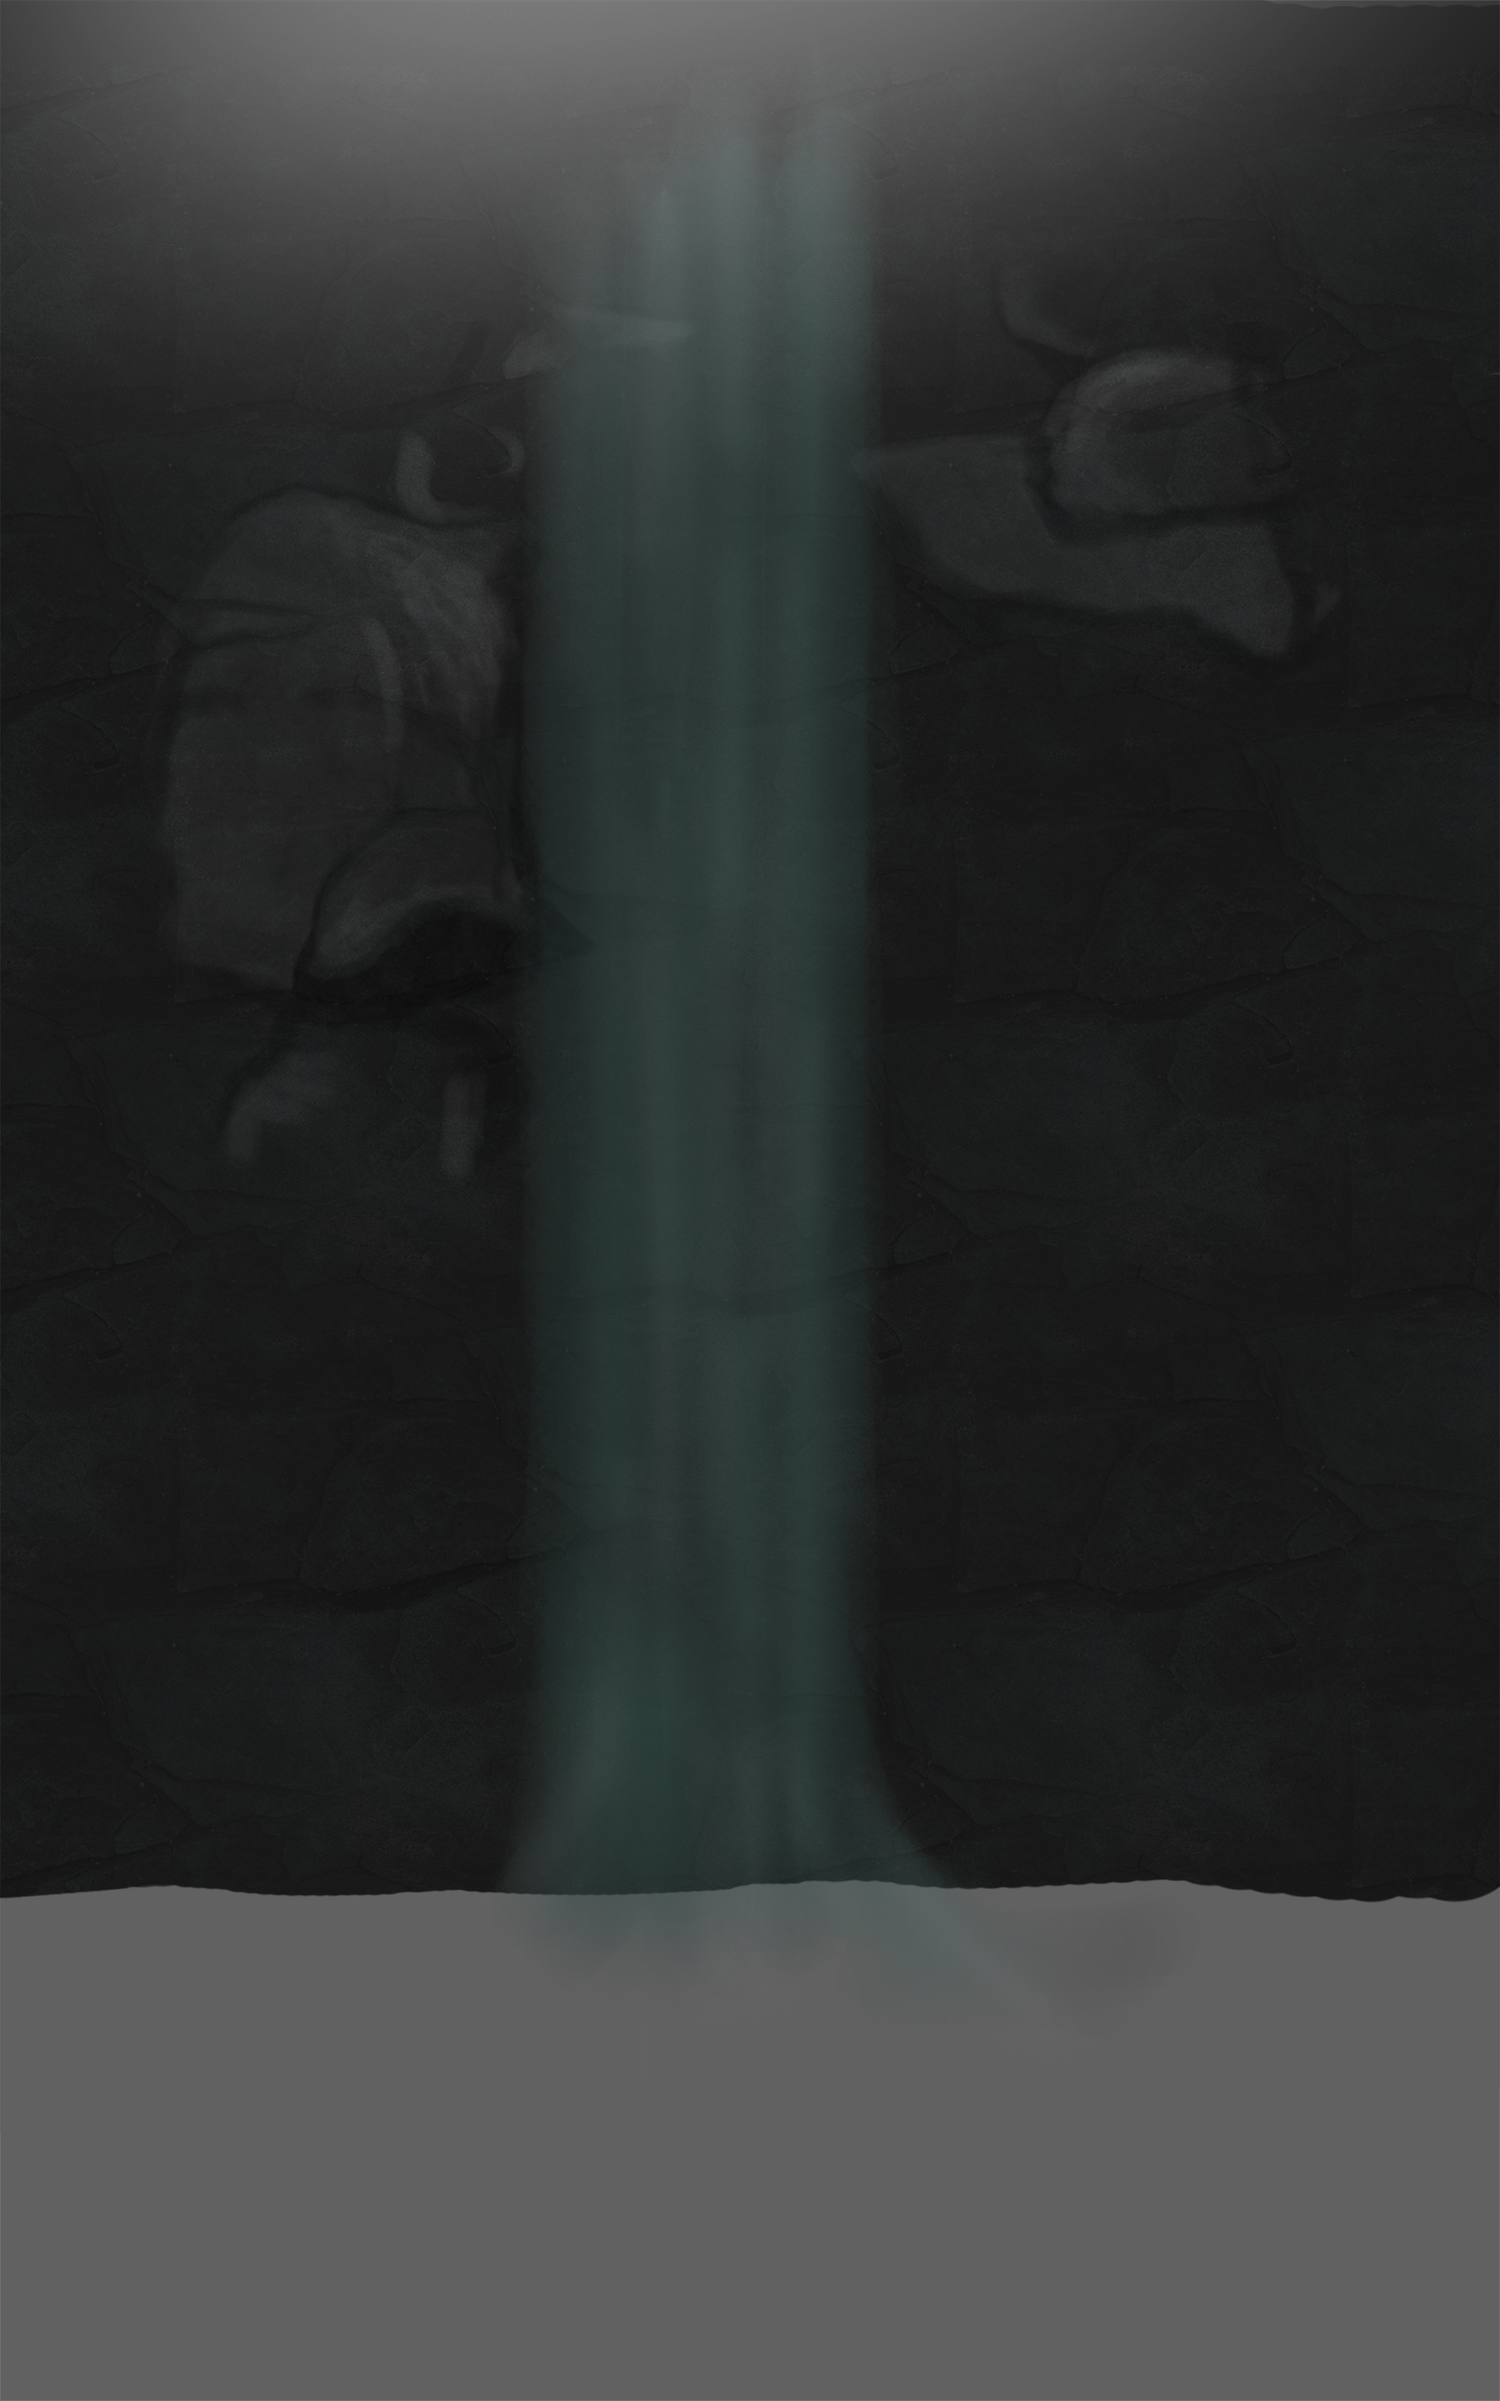
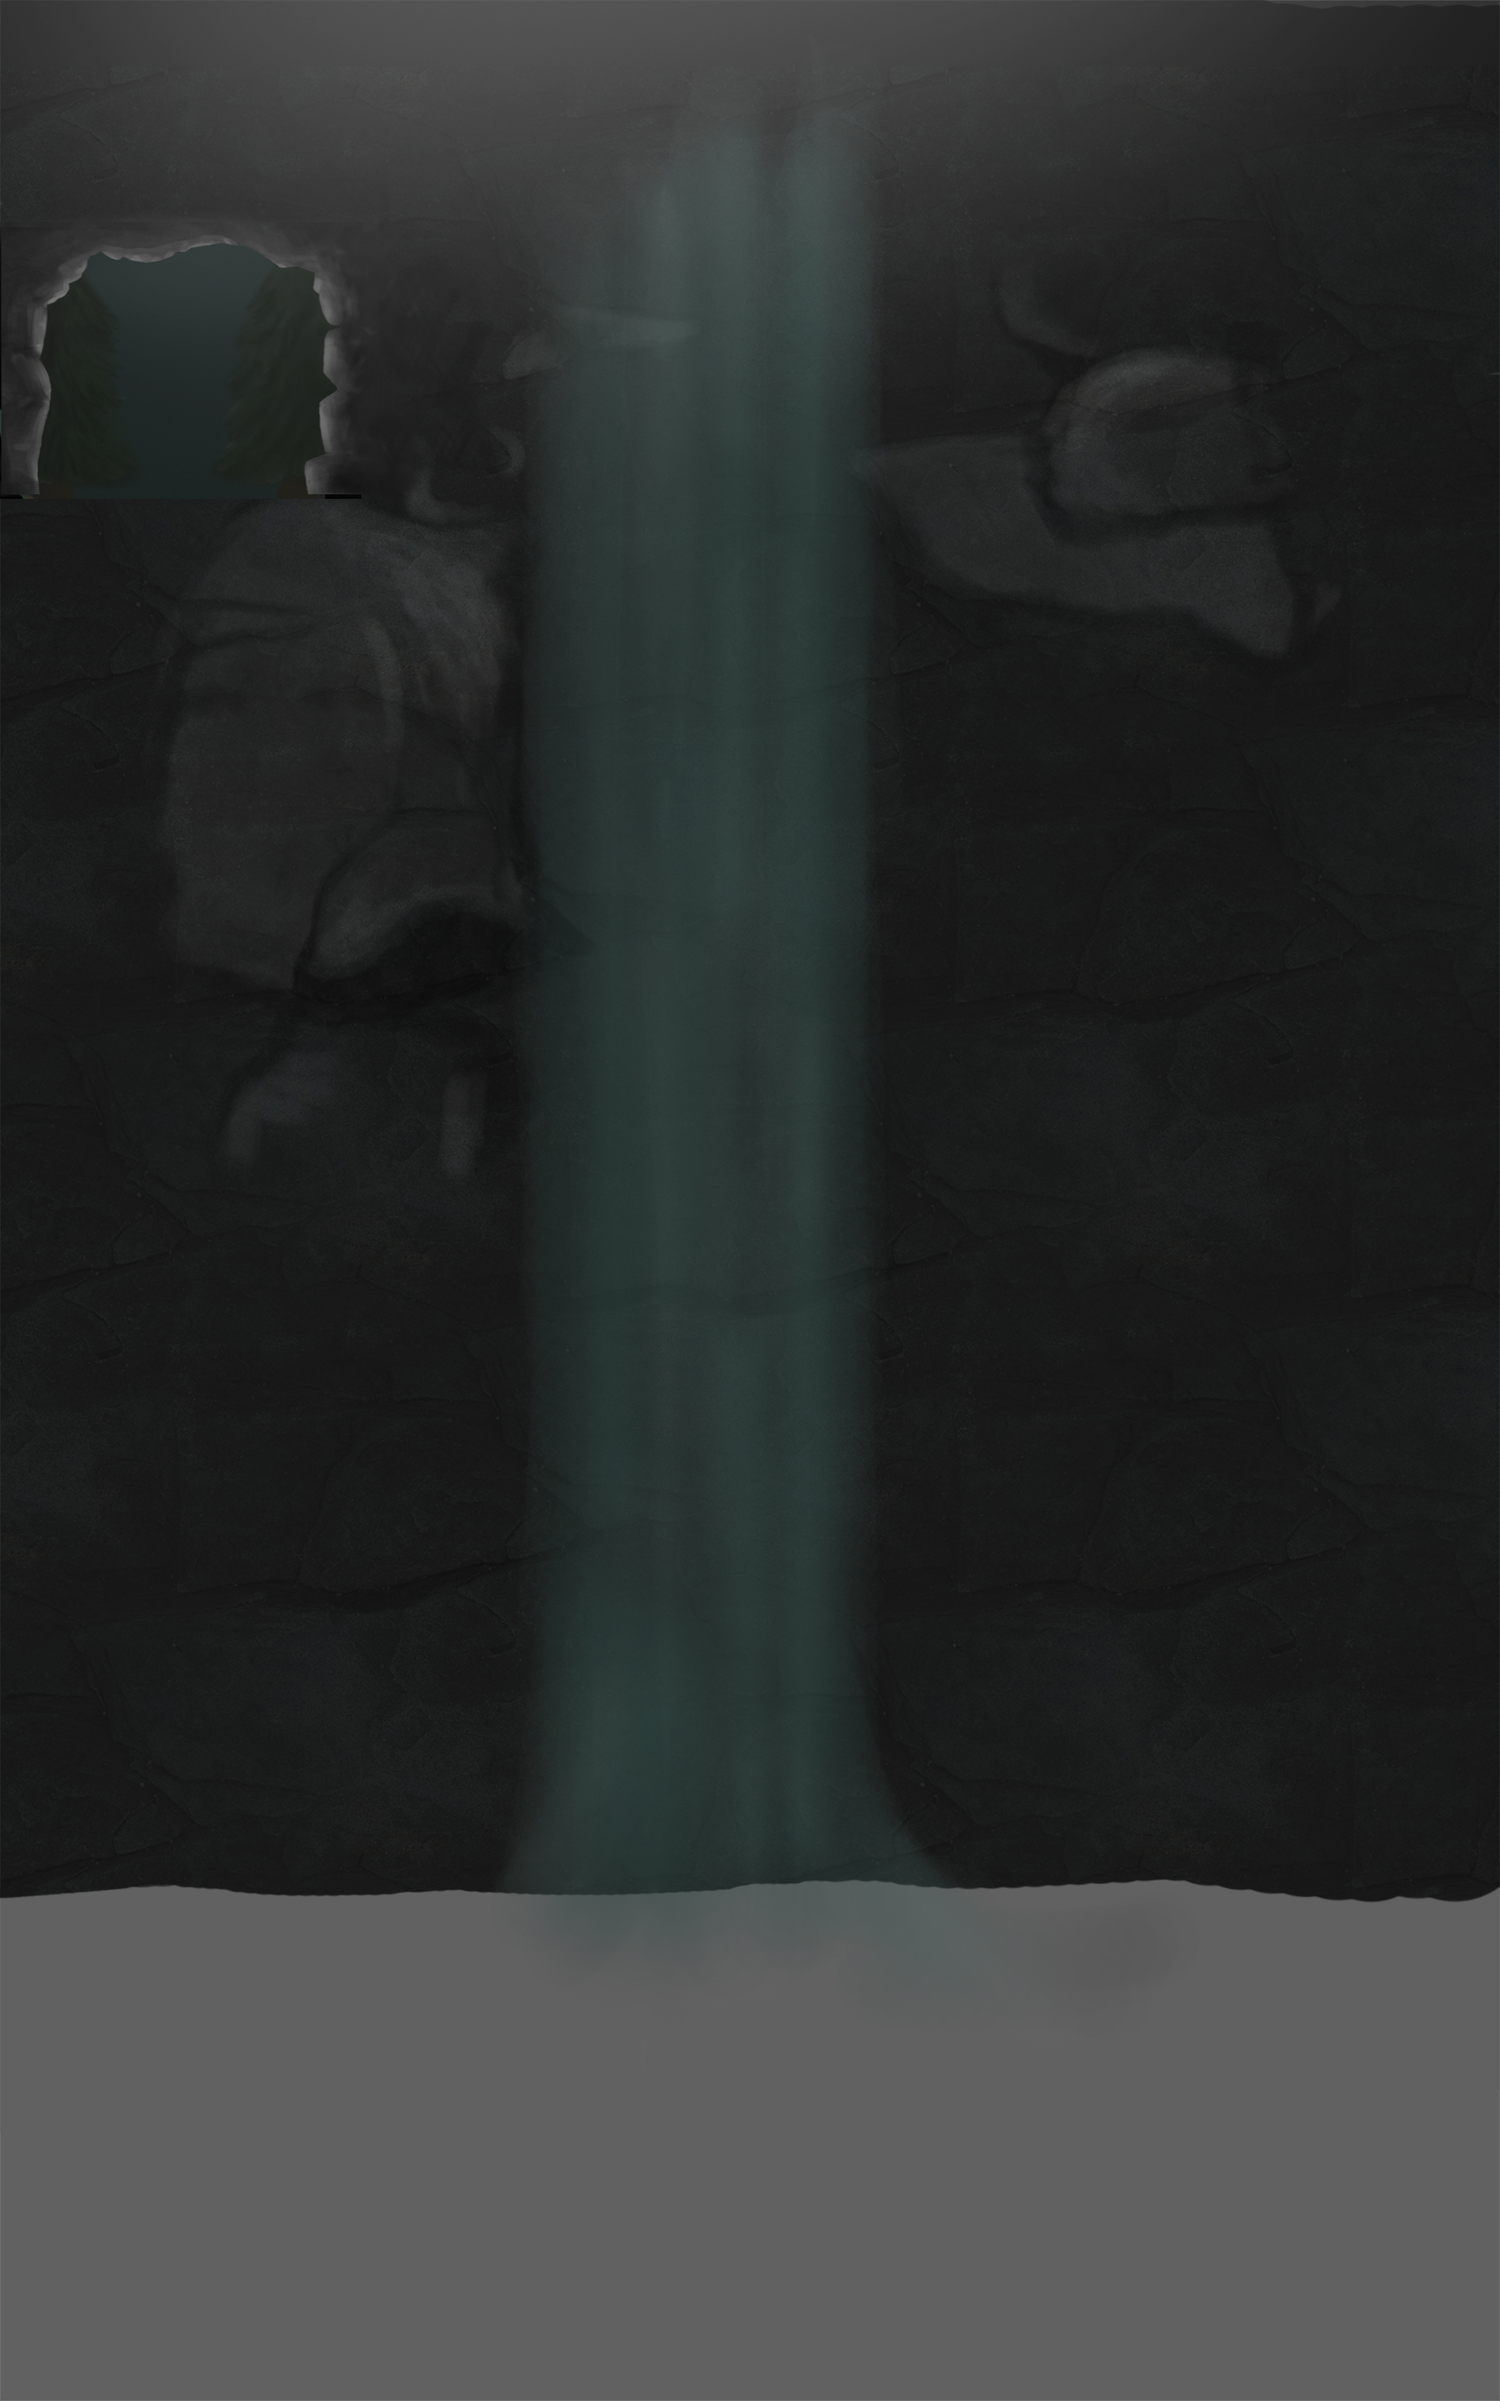
cave exit drawn

diff --git a/coma/src/scenes/start.js b/coma/src/scenes/start.js
@@ -44,9 +44,9 @@ export default class Start extends Phaser.Scene {
 
     b1.on("pointerup", function() {
         sound.play('high');
-        this.scene.start('Hospital')
+        //this.scene.start('Hospital')
         //this.forestScene = false;
-        //this.scene.start('caves', { forestScene: this.forestScene });
+        this.scene.start('caves', { forestScene: this.forestScene });
       }, this
     );
   }
